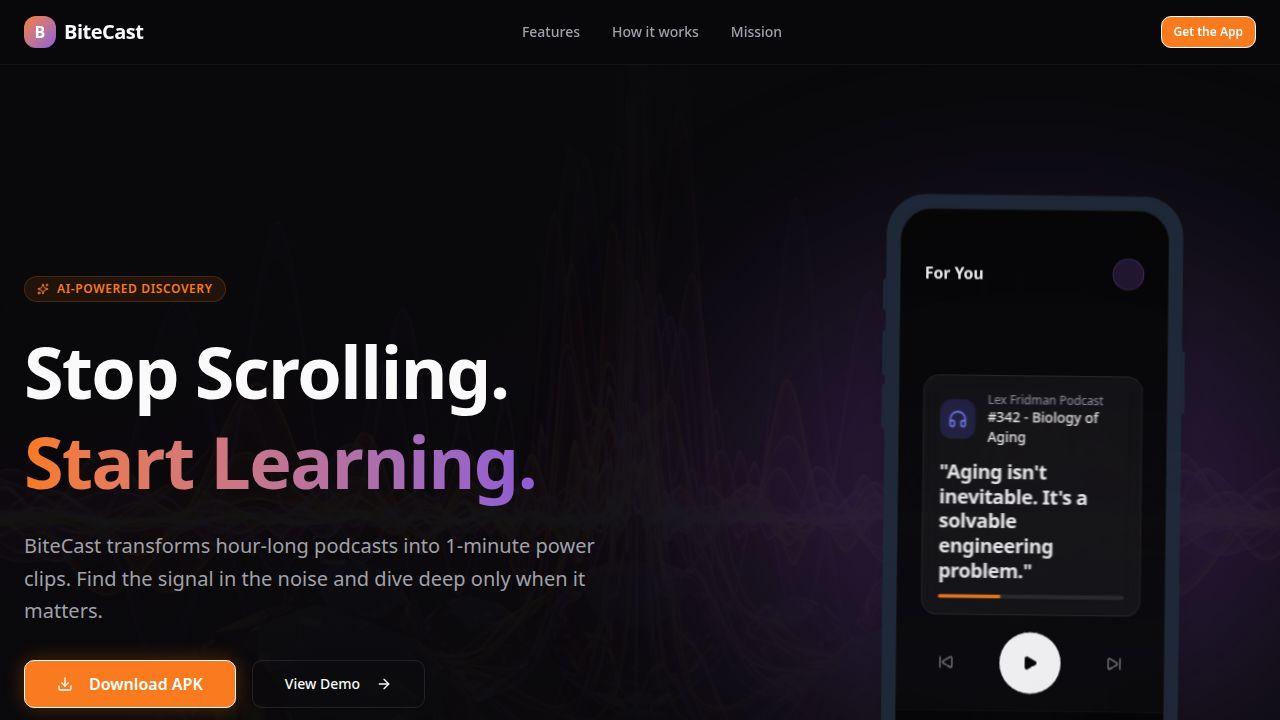
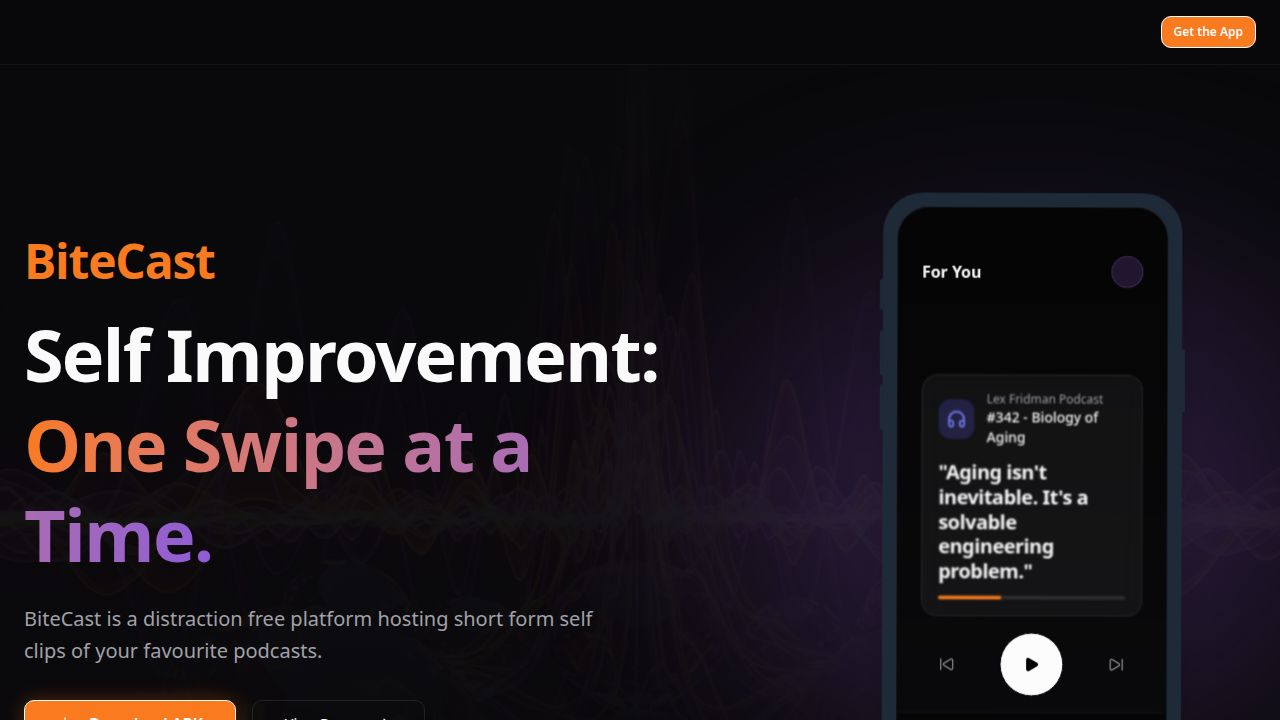
Update main headline and remove unnecessary branding elements
Removes the large, faded "BiteCast" text from the hero section, making the main "BiteCast" title more prominent and directly integrated.

Replit-Commit-Author: Agent
Replit-Commit-Session-Id: 0bd07f85-ab07-417b-9c41-ed8c2dc772e7
Replit-Commit-Checkpoint-Type: full_checkpoint
Replit-Commit-Event-Id: 191aec7c-90b1-41d3-a69d-9d81266d877e
Replit-Commit-Screenshot-Url: https://storage.googleapis.com/screenshot-production-us-central1/eac42e94-638d-492f-a15c-382911030d7d/0bd07f85-ab07-417b-9c41-ed8c2dc772e7/U3ucR6y
Replit-Helium-Checkpoint-Created: true

diff --git a/client/src/pages/home.tsx b/client/src/pages/home.tsx
@@ -42,10 +42,7 @@ export default function Home() {
                 transition={{ duration: 0.5 }}
               >
                 <div className="mb-6">
-                  <span className="text-6xl md:text-8xl lg:text-9xl font-bold font-heading tracking-tighter text-transparent bg-clip-text bg-gradient-to-br from-primary via-primary to-secondary opacity-20 absolute -top-10 -left-4 select-none">
-                    BiteCast
-                  </span>
-                  <span className="text-4xl md:text-5xl font-bold font-heading tracking-tight text-primary relative z-10">
+                  <span className="text-4xl md:text-5xl font-bold font-heading tracking-tight text-primary">
                     BiteCast
                   </span>
                 </div>
